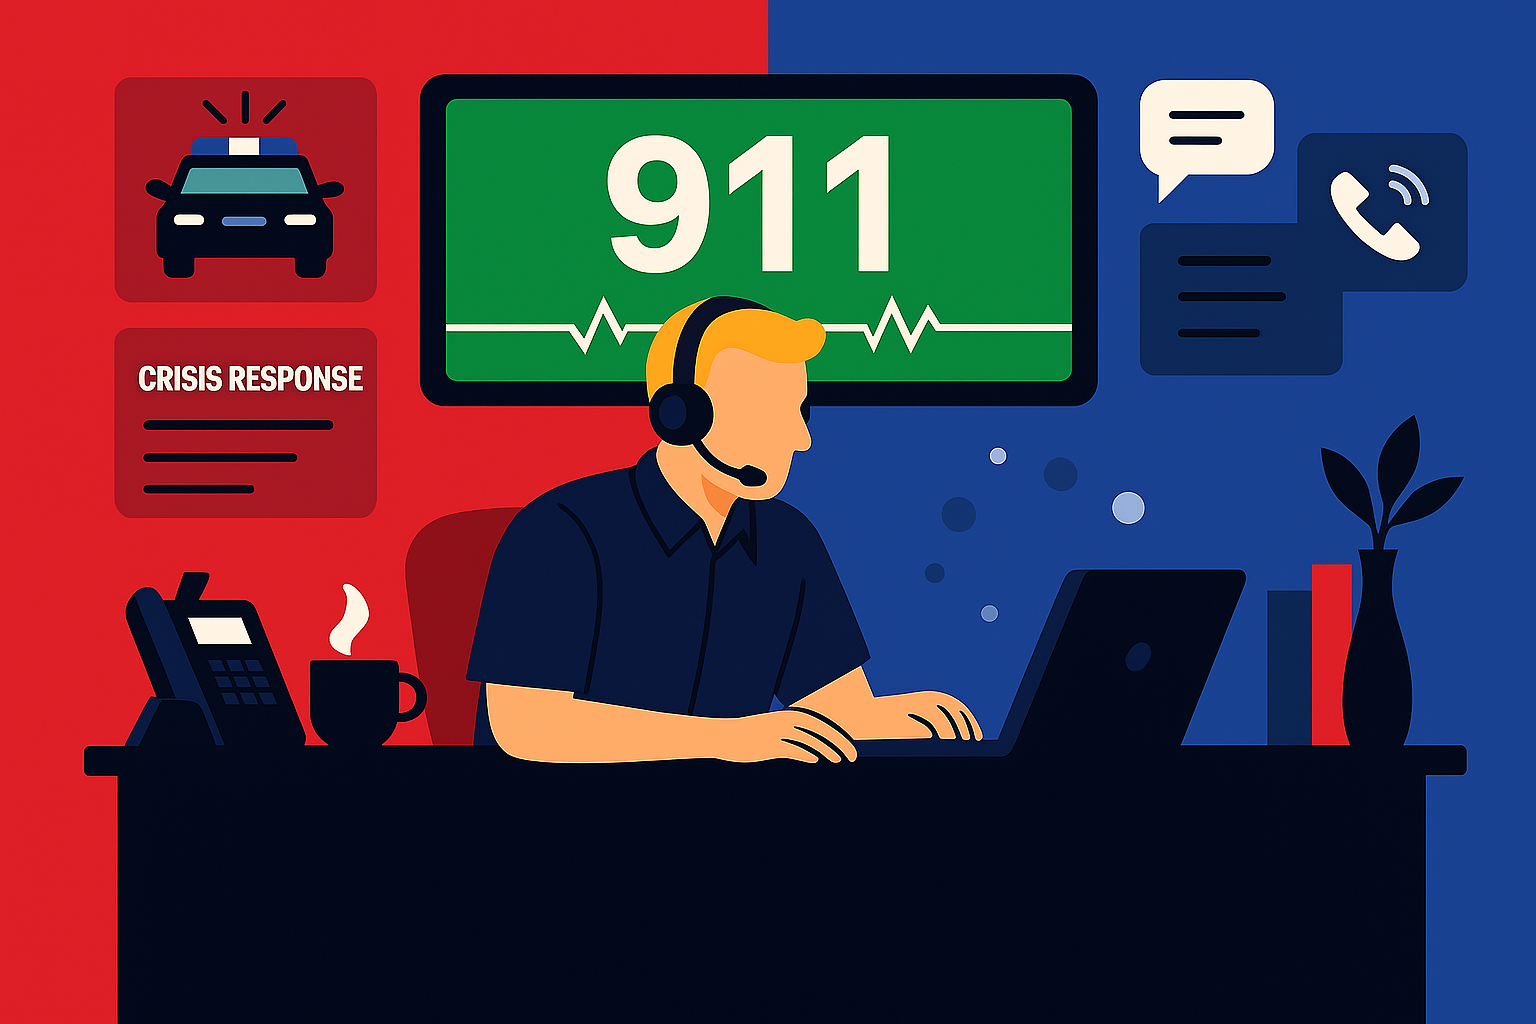
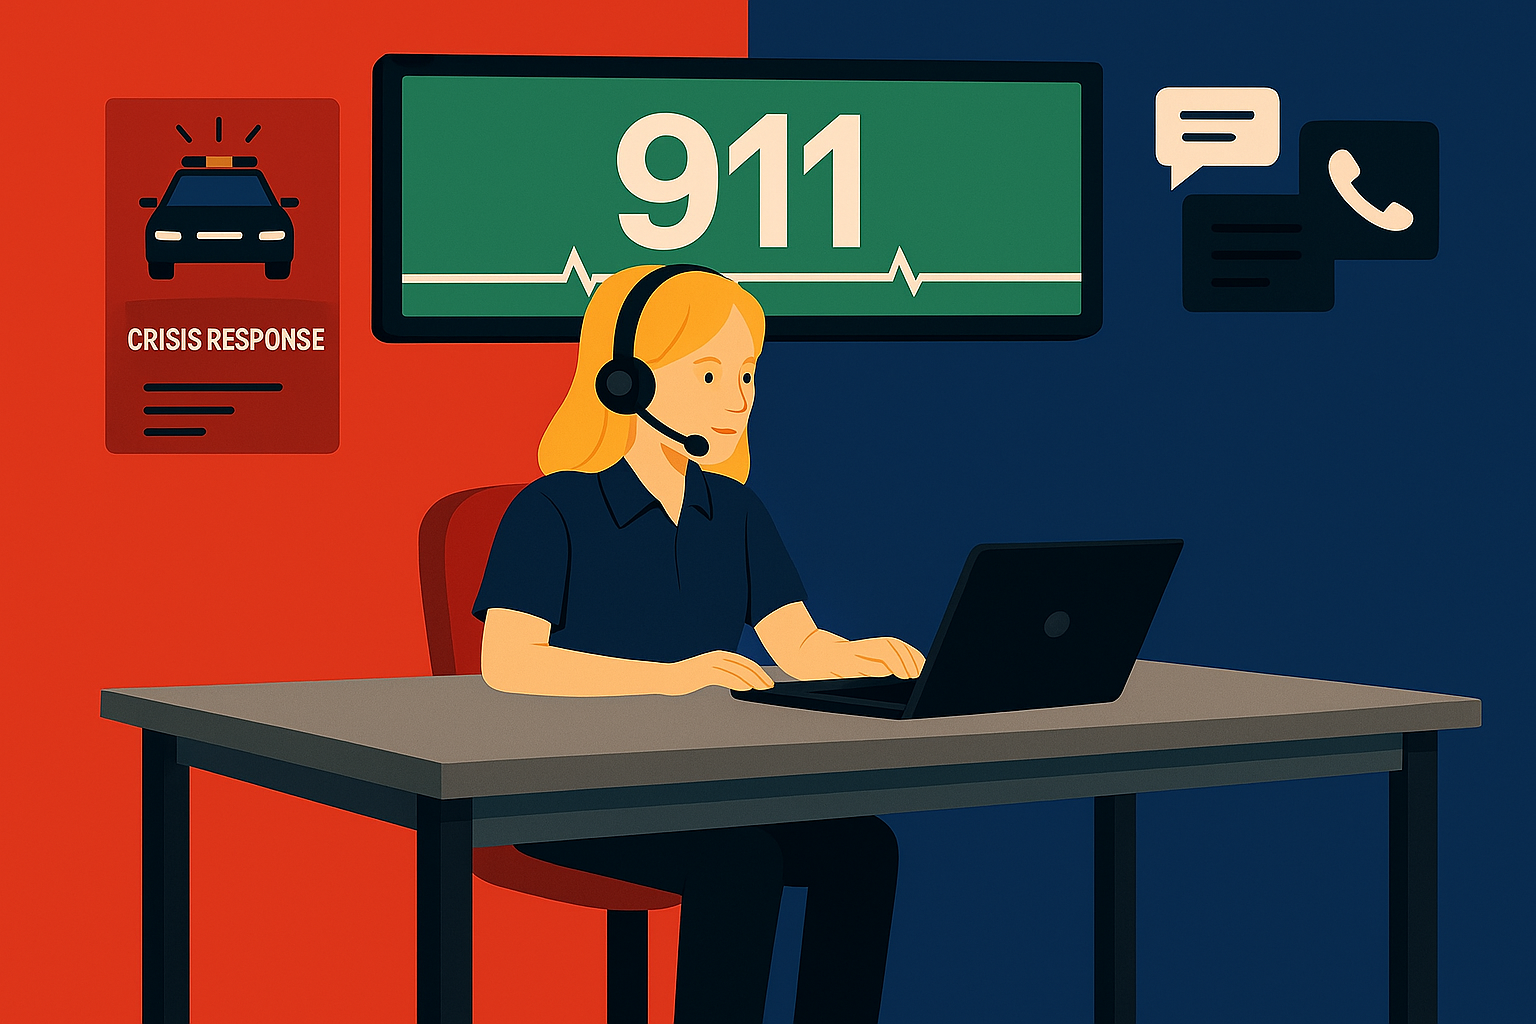
added interview end pictures corresponding to the levels

diff --git a/src/clientLayout.tsx b/src/clientLayout.tsx
@@ -57,7 +57,7 @@ const componentsList: ComponentItem[] = [
     path: "/cards/interviewRoom",
     isLocked: false,
     requiredScore: 0,
-    tags: ["Professional", "Medium"],
+    tags: ["Work", "Easy"],
   },
   {
     id: 2,
@@ -120,7 +120,7 @@ const componentsList: ComponentItem[] = [
     path: "/cards/englishGuideBot",
     isLocked: false, // Will be dynamically controlled by live conversation system
     requiredScore: 0,
-    tags: ["Education", "Live"],
+    tags: ["Test", "Live"],
     isLiveConversation: true, // Mark as live conversation level
   },
 ];
@@ -150,7 +150,22 @@ export default function ClientLayout({
   );
   const [showLiveConversationUnlock, setShowLiveConversationUnlock] = useState(false);
   
+  // FILTERING SYSTEM STATE
+  const [selectedType, setSelectedType] = useState('All');
+  const [selectedDifficulty, setSelectedDifficulty] = useState('All');
+  
   const router = useRouter();
+
+  // FILTERING LOGIC
+  const filteredComponents = componentsList.filter(component => {
+    const typeMatch = selectedType === 'All' || component.tags?.some(tag => 
+      tag.toLowerCase() === selectedType.toLowerCase()
+    );
+    const difficultyMatch = selectedDifficulty === 'All' || component.tags?.some(tag => 
+      tag.toLowerCase() === selectedDifficulty.toLowerCase()
+    );
+    return typeMatch && difficultyMatch;
+  });
 
   // Load scores and unlock state from localStorage
   useEffect(() => {
@@ -714,8 +729,48 @@ export default function ClientLayout({
             <h2 className="text-2xl sm:text-3xl font-bold text-gray-800 mb-6 text-center">
               🚀 Available Scenarios
             </h2>
+            
+            {/* Minimal Filter System */}
+            <div className="flex flex-wrap items-center justify-center gap-4 mb-8">
+              {/* Type Filter */}
+              <div className="flex items-center gap-2">
+                <span className="text-sm font-medium text-gray-600">Type:</span>
+                <select 
+                  value={selectedType}
+                  onChange={(e) => setSelectedType(e.target.value)}
+                  className="px-3 py-1 text-sm bg-white border border-gray-200 rounded-lg shadow-sm focus:outline-none focus:ring-2 focus:ring-blue-500 focus:border-transparent"
+                >
+                  <option value="All">All</option>
+                  <option value="Work">Work</option>
+                  <option value="Life">Life</option>
+                  <option value="Fantasy">Fantasy</option>
+                  <option value="Test">Test</option>
+                </select>
+              </div>
+              
+              {/* Difficulty Filter */}
+              <div className="flex items-center gap-2">
+                <span className="text-sm font-medium text-gray-600">Difficulty:</span>
+                <select 
+                  value={selectedDifficulty}
+                  onChange={(e) => setSelectedDifficulty(e.target.value)}
+                  className="px-3 py-1 text-sm bg-white border border-gray-200 rounded-lg shadow-sm focus:outline-none focus:ring-2 focus:ring-blue-500 focus:border-transparent"
+                >
+                  <option value="All">All</option>
+                  <option value="Easy">Easy</option>
+                  <option value="Medium">Medium</option>
+                  <option value="Hard">Hard</option>
+                </select>
+              </div>
+              
+              {/* Results Count */}
+              <div className="text-xs text-gray-500 ml-2">
+                {filteredComponents.length} scenario{filteredComponents.length !== 1 ? 's' : ''}
+              </div>
+            </div>
+            
             <div className="grid grid-cols-1 sm:grid-cols-2 lg:grid-cols-3 xl:grid-cols-4 text-center gap-6 sm:gap-8 lg:gap-10 max-w-7xl w-full mx-auto">
-              {componentsList
+              {filteredComponents
                 // LOCKED LEVELS - CURRENTLY DISABLED
                 // .filter(item => {
                 //   const isAdvancedCard = item.id === 7; // English Guide Bot only
@@ -759,7 +814,7 @@ export default function ClientLayout({
                               case "fantasy":
                                 tagColor = "bg-gradient-to-r from-pink-500 to-rose-600 text-white ring-1 ring-pink-300/60";
                                 break;
-                              case "education":
+                              case "test":
                                 tagColor = "bg-gradient-to-r from-indigo-500 to-indigo-600 text-white ring-1 ring-indigo-300/60";
                                 break;
                               case "live":
@@ -767,6 +822,12 @@ export default function ClientLayout({
                                 break;
                               case "easy":
                                 tagColor = "bg-gradient-to-r from-green-500 to-green-600 text-white ring-1 ring-green-300/60";
+                                break;
+                              case "medium":
+                                tagColor = "bg-gradient-to-r from-yellow-500 to-orange-500 text-white ring-1 ring-yellow-300/60";
+                                break;
+                              case "hard":
+                                tagColor = "bg-gradient-to-r from-red-500 to-red-600 text-white ring-1 ring-red-300/60";
                                 break;
                               default:
                                 tagColor = "bg-gradient-to-r from-gray-500 to-gray-600 text-white ring-1 ring-gray-300/60";

diff --git a/src/app/cards/emergency911/page.tsx b/src/app/cards/emergency911/page.tsx
@@ -7,6 +7,7 @@ import SpeechRecognition, {
 import { motion } from "framer-motion";
 import Confetti from "react-confetti";
 import { useRouter } from "next/navigation";
+import Image from "next/image";
 import { generatePDFReport } from "@/app/utils/pdfGenerator";
 
 export default function Emergency911() {
@@ -561,7 +562,7 @@ export default function Emergency911() {
         <div
           className="relative z-10 w-full min-h-screen flex flex-col justify-center items-center text-center px-4 py-10 sm:py-20 bg-cover bg-center bg-no-repeat animate__animated animate__fadeInUp"
           style={{
-            backgroundImage: "url('/backgrounds/emergencyBg.png')",
+            backgroundImage: "url('/cards/emergency-911.png')",
           }}
         >
           {/* Dark overlay - responsive for desktop/laptop */}
@@ -645,17 +646,38 @@ export default function Emergency911() {
         </span>
       </motion.div>
 
-      {/* 💬 AI Reply */}
+      {/* 💬 AI Reply with Dispatcher Avatar */}
       <motion.div
         initial={{ y: -20, opacity: 0 }}
         animate={{ y: 0, opacity: 1 }}
-        className="p-6 rounded-xl bg-gradient-to-br from-red-900/40 to-blue-900/40 backdrop-blur-sm border border-white/20 shadow-xl text-white text-center w-full"
+        className="p-6 rounded-xl bg-gradient-to-br from-red-900/40 to-blue-900/40 backdrop-blur-sm border border-white/20 shadow-xl text-white w-full"
       >
-        {aiReply ? (
-          <p className="text-lg font-medium leading-relaxed">{aiReply}</p>
-        ) : (
-          <p className="italic text-gray-300">Dispatcher is waiting...</p>
-        )}
+        <div className="flex items-start gap-4">
+          {/* Dispatcher Avatar */}
+          <div className="flex-shrink-0">
+            <div className="w-12 h-12 sm:w-16 sm:h-16 rounded-full border-2 border-red-400 bg-white shadow-md overflow-hidden">
+              <Image
+                src="/avatars/emergency-young-woman.png"
+                alt="911 Dispatcher"
+                width={64}
+                height={64}
+                className="w-full h-full object-cover"
+              />
+            </div>
+            <div className="text-xs text-center mt-1 text-red-300 font-semibold">
+              911 Dispatcher
+            </div>
+          </div>
+          
+          {/* Message Content */}
+          <div className="flex-1 text-left">
+            {aiReply ? (
+              <p className="text-lg font-medium leading-relaxed">{aiReply}</p>
+            ) : (
+              <p className="italic text-gray-300">Dispatcher is waiting...</p>
+            )}
+          </div>
+        </div>
       </motion.div>
 
       {/* 🎙 Listening indicator */}

diff --git a/src/app/cards/SpacecraftSimulation/page.tsx b/src/app/cards/SpacecraftSimulation/page.tsx
@@ -7,6 +7,7 @@ import { Canvas } from "@react-three/fiber";
 import { Stars, OrbitControls } from "@react-three/drei";
 import SoundWave from "@/app/components/soundWave/page";
 import { saveScenarioScore } from "@/utils/scoreManager";
+import Confetti from "react-confetti";
 
 interface ScoreData {
   points: number;
@@ -430,10 +431,18 @@ export default function SpacecraftSimulation() {
 
   if (showCompletion) {
     return (
-      <div className="min-h-screen bg-gradient-to-b from-black via-purple-900 to-black text-white flex items-center justify-center p-4 relative">
-        {/* Responsive background overlay for completion */}
-        <div className="absolute inset-0 bg-black/0 md:bg-black/15 lg:bg-black/15 xl:bg-black/15 z-0"></div>
-        <div className="text-center max-w-4xl">
+      <div className="relative z-10 w-full min-h-screen flex flex-col justify-center items-center text-center px-4 py-10 sm:py-20 bg-cover bg-center bg-no-repeat animate__animated animate__fadeInUp"
+           style={{
+             backgroundImage: "url('/cards/spacecraft.png')",
+           }}>
+        {/* Dark overlay - responsive for desktop/laptop */}
+        <div className="absolute inset-0 bg-black/80 md:bg-black/68 lg:bg-black/68 xl:bg-black/68 z-0"></div>
+        
+        {/* Confetti */}
+        <Confetti className="w-full h-full z-10" />
+        
+        {/* Content */}
+        <div className="relative z-20 max-w-4xl w-full px-4">
           <div className="mb-8">
             <h1 className="text-4xl md:text-6xl font-bold mb-4 text-green-400">
               {missionStatus === "SUCCESS" ? "🎉 Mission Accomplished!" : 

diff --git a/src/app/cards/interviewRoom/page.tsx b/src/app/cards/interviewRoom/page.tsx
@@ -479,8 +479,7 @@ const playVoice = async (text: string, speaker: string) => {
               <div
                 className="relative z-10 w-full min-h-screen flex flex-col justify-center items-center text-center px-4 py-10 sm:py-20 bg-cover bg-center bg-no-repeat animate__animated animate__fadeInUp"
                 style={{
-                  backgroundImage:
-                    "url('https://cdn.prod.website-files.com/61a05ff14c09ecacc06eec05/6720e94e1cd203b14c045522_%20Interview-Notes.jpg')",
+                  backgroundImage: "url('/cards/interview-room.png')",
                 }}
               >
                 {/* Desktop/Laptop Opacity Overlay - 85% of current */}

diff --git a/src/app/cards/outletCustomer/page.tsx b/src/app/cards/outletCustomer/page.tsx
@@ -322,8 +322,7 @@ export default function OutletCustomer() {
             <div
               className="relative z-10 w-full min-h-screen flex flex-col justify-center items-center text-center px-4 py-10 sm:py-20 bg-cover bg-center bg-no-repeat animate__animated animate__fadeInUp"
               style={{
-                backgroundImage:
-                  "url('https://images.unsplash.com/photo-1556742049-0cfed4f6a45d?ixlib=rb-4.0.3&auto=format&fit=crop&w=2340&q=80')",
+                backgroundImage: "url('/cards/outlet-customer.png')",
               }}
             >
               {/* Dark overlay - responsive for desktop/laptop */}

diff --git a/src/app/cards/weeklyCheckWithManager/page.tsx b/src/app/cards/weeklyCheckWithManager/page.tsx
@@ -375,8 +375,7 @@ export default function WeeklyCheck() {
             <div
               className="relative z-10 w-full min-h-screen flex flex-col justify-center items-center text-center px-4 py-10 sm:py-20 bg-cover bg-center bg-no-repeat animate__animated animate__fadeInUp"
               style={{
-                backgroundImage:
-                  "url('https://images.unsplash.com/photo-1557804506-669a67965ba0?ixlib=rb-4.0.3&auto=format&fit=crop&w=1974&q=80')",
+                backgroundImage: "url('/cards/weekly-manager.png')",
               }}
             >
               {/* Dark overlay - responsive for desktop/laptop */}

diff --git a/src/app/cards/parkingTicket/page.tsx b/src/app/cards/parkingTicket/page.tsx
@@ -519,7 +519,7 @@ export default function ParkingTicket(): React.JSX.Element {
             <div
               className="relative z-10 w-full min-h-screen flex flex-col justify-center items-center text-center px-4 py-10 sm:py-20 bg-cover bg-center bg-no-repeat animate__animated animate__fadeInUp"
               style={{
-                backgroundImage: "url('/backgrounds/parkingBg.png')",
+                backgroundImage: "url('/cards/parking-ticket.png')",
               }}
             >
               <div className="absolute inset-0 bg-black/80 md:bg-black/68 lg:bg-black/68 xl:bg-black/68 z-0"></div>
